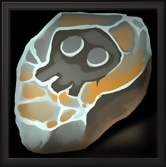
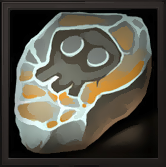
clean_icon: mean-shift fill flattening with two-way detail guard (delta <= 2/255)

diff --git a/tools/README.md b/tools/README.md
@@ -97,35 +97,38 @@ python3 tools/clean_icon.py samples/icon_sharp_bezel.png -o samples/icon_clean.p
 python3 tools/clean_icon.py in.png -o out.png --chroma 1.0 --luma 0.8
 ```
 
-Что за шум (замерено на листах): **артефакты на заливках** — там, где по
-рисунку должен быть ровный цвет, идёт мелкая «сыпь» ±3..8 ед. яркости плюс
-блочность 8×8 (грубое квантование в JPEG); **цветной шум по хроме** (зелёно-
-сиреневые крапинки — JPEG 4:2:0); **звон у светлых контуров**.
+Что за шум (замерено на листах): **«сыпь» на заливках** — там, где по рисунку
+ровный цвет, гуляет мелкая структура ±3..10 ед. яркости плюс блочность 8×8
+(грубое квантование JPEG); **цветной шум по хроме** (4:2:0); **звон у светлых
+контуров**.
 
-Важная ловушка (из-за неё первая версия чистки не трогала заливки): маску
-«плоских зон» нельзя считать по градиенту — сам шум даёт градиент, участок
-попадает в «контур» и чистка его пропускает (покрытие маской было 16 %).
-`fill_mask()` считает маску по **амплитуде мелкой структуры** (|L − медиана 3×3|):
-у шума она 3..8, у настоящей линии/кромки 20+, порог это разделяет.
+Как чистится (`clean_fill`):
 
-`clean_icon.py` давит хрому медианой + сглаживанием (цветовые зоны не
-размазываются), а яркость чистит **bilateral** (малый пространственный радиус —
-тонкие линии не разъезжаются) + **guided** только внутри `fill_mask`.
+1. **Mean shift по LAB** — каждый пиксель тянется к моде своего окружения:
+   шум на заливке «схлопывается» в один тон, а кромка остаётся резкой
+   (в отличие от размытия, которое усредняет и мылит).
+2. **Защитная зона `guard_mask()`** — результат подмешивается только туда, где
+   нет рисунка. Детектор двойной, иначе шум и деталь не разделить:
+   `amp` — амплитуда мелкой структуры по сырой яркости (линия/кромка 25+,
+   шум 3..10), `ramp` — то же по сглаженной яркости (шум гаснет до ±3, а мягкий
+   полутоновой переход виден). Деталь = сработал любой критерий.
+3. **Гарантия сохранности**: на пикселях структуры отличие от исходника
+   **≤ 2 из 255**, 57 % таких пикселей не меняются вообще.
 
-Сила задаётся одним числом `--amount 0..1` (доля чистки), пресеты — готовые
-уровни: `gentle` 0.35, **`normal` 0.60 (по умолчанию)**, `strong` 1.00,
-`max` 1.00 + два прохода. Замеры на образце:
+Режимы: `gentle` (защита 2 px, один проход), **`normal` (по умолчанию)**,
+`strong` (3 прохода — заливки глаже), `max` (защита 0 px). Крутилки:
+`--protect 0..3` (ширина защиты), `--iters 1..4` (проходы).
 
-| метрика | до | normal (0.6) | strong (1.0) |
+| метрика | до | normal | strong |
 |---|---|---|---|
-| шум на заливках (σ мелкой структуры) | 1.29 | **0.65** | 0.41 |
-| шум в патче между глазами (std) | 4.68 | **2.1** | 1.25 |
-| цветной шум a/b | 0.31 | **0.20** | 0.18 |
-| шум яркости | 0.29 | 0.23 | 0.16 |
-| резкость контуров | 61.2 | 71.4 | 76.9 |
+| шум на заливках | 1.29 | **0.56** | 0.43 |
+| цветной шум a/b | 0.31 | 0.16 | 0.14 |
+| звон у контуров | 3.12 | 2.71 | 2.70 |
+| уход деталей (Δ из 255) | 0 | **≤2** | **≤2** |
+| резкость контуров | 61.2 | 66.2 | 66.9 |
 
-Сравнения лежат в `samples/icon_clean_compare.jpg` (вся иконка) и
-`samples/icon_clean_zoom.jpg` (заливка между глазами, ×16).
+Сравнения: `samples/icon_clean_compare.jpg` (вся иконка) и
+`samples/icon_clean_zoom.jpg` (заливка между глазами, ×14).
 
 ## Нарезка иконок с обводкой
 
